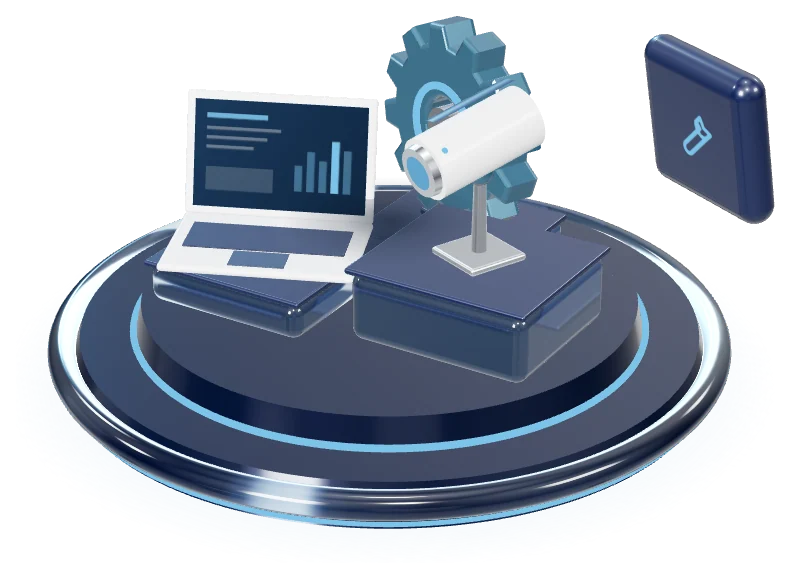
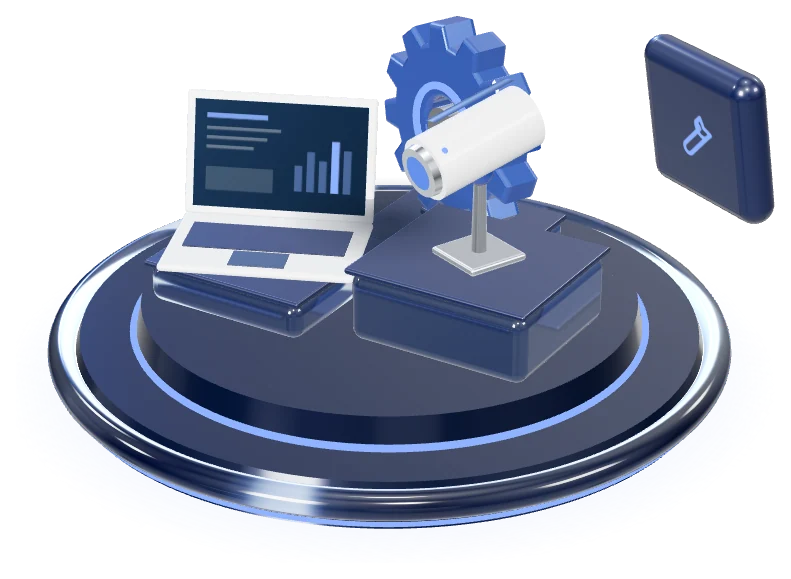
Royal-blue palette, shared frame alignment, centred nav tab
New colours: royal-blue primary button (white text, white chip), steel
blue accent on light, periwinkle accent on navy, blue-tinted ice and
mist; 3D renders re-rendered in the new palette. Every panel and every
section's content now sits on one frame (min(100% - 2 x inset, 1440px)),
so all sections start and end exactly where the hero does at every
width. The nav tab is centred between the logo and the button.

diff --git a/src/app/globals.css b/src/app/globals.css
@@ -6,12 +6,13 @@
    Motion timings live next door in src/lib/motion.ts.
 
    Contrast (WCAG AA), measured:
-     on white   text 15.9 · text-2 7.5 · text-3 5.2 · steel 5.6
-     on mist    text 15.0 · text-2 7.1 · text-3 4.9 · steel 5.3
-     on ice     text 14.3 · text-2 6.7 · text-3 4.7 · steel 5.0
-     on navy    white 15.9 · text-2-dark 9.1 · text-3-dark 6.2 · sky 5.9
-     ink on sky 6.9 (primary button) · ink on sky-deep 5.0 (its hover)
-   Sky and LED blue are fills, lines and large display text only on white.
+     on white   text 15.9 · text-2 7.5 · text-3 5.2 · steel (accent) 6.2
+     on mist    text 15.1 · text-2 7.1 · text-3 4.9 · steel 5.9
+     on ice     text 14.4 · text-2 6.8 · text-3 4.7 · steel 5.6
+     on navy    white 15.9 · text-2-dark 9.1 · text-3-dark 6.2 · sky 6.9
+     white on azure 5.2 (primary button) · white on azure-deep 6.7 (hover)
+   Sky and LED blue are accents on navy and fills only; never small text
+   on white.
    ========================================================================== */
 
 @theme {
@@ -19,14 +20,16 @@
   --color-ink: #0b1626;
   --color-navy: #14213a;
   --color-brand: #2a4161;
-  --color-steel: #3f6d85;
-  --color-sky: #5ba3d0;
-  --color-sky-deep: #3f88b8; /* sky's pressed / hover-wipe tone */
-  --color-ice: #eaf3fa;
-  --color-mist: #f4f8fb;
-  --color-line: #e3e9f0;
+  --color-steel: #2f5cc4; /* royal steel blue: the accent on light */
+  --color-sky: #7aa2ff; /* periwinkle: the accent on navy, fills */
+  --color-sky-deep: #4f7fe8;
+  --color-azure: #2563eb; /* primary action */
+  --color-azure-deep: #1d4ed8;
+  --color-ice: #edf2ff;
+  --color-mist: #f5f7fc;
+  --color-line: #e2e8f3;
   --color-amber: #f5b84b; /* tiny highlights only, never a wash */
-  --color-led: #7cc3e8; /* light sources in renders and on dark panels */
+  --color-led: #8fb3ff; /* light sources in renders and on dark panels */
 
   /* Text (light surfaces) */
   --color-text: #14213a;
@@ -37,15 +40,15 @@
   --color-fg: #14213a;
   --color-fg-muted: #4a5568;
   --color-fg-subtle: #5b6b80;
-  --color-accent: #3f6d85; /* accent phrase on light: steel */
+  --color-accent: #2f5cc4; /* accent phrase on light: steel */
   --color-bg: #ffffff;
   --color-surface: #ffffff;
   --color-surface-2: #f4f8fb;
   --color-canvas: #f4f8fb;
   --color-bg-deep: #f4f8fb;
-  --color-bg-raised: #eaf3fa;
+  --color-bg-raised: #edf2ff;
   --color-on-glow: #0b1626; /* text on sky fills */
-  --color-glow: #5ba3d0;
+  --color-glow: #7aa2ff;
   --color-brand-deep: #14213a;
   --color-charcoal: #4a4a4a;
 
@@ -108,7 +111,7 @@
   --color-text-2: #c3cfdc;
   --color-fg-subtle: #9fb1c5;
   --color-text-3: #9fb1c5;
-  --color-accent: #5ba3d0; /* accent phrase on dark: sky */
+  --color-accent: #7aa2ff; /* accent phrase on dark: sky */
   --color-line: rgb(255 255 255 / 0.12);
   --color-surface: rgb(255 255 255 / 0.06);
   --color-surface-2: rgb(255 255 255 / 0.08);
@@ -131,12 +134,12 @@
   --color-text-2: #4a5568;
   --color-fg-subtle: #5b6b80;
   --color-text-3: #5b6b80;
-  --color-accent: #3f6d85;
-  --color-line: #e3e9f0;
+  --color-accent: #2f5cc4;
+  --color-line: #e2e8f3;
   --color-surface: #ffffff;
   --color-surface-2: #f4f8fb;
   --color-bg: #ffffff;
-  --surface-edge: #e3e9f0;
+  --surface-edge: #e2e8f3;
   --shadow-card: 0 1px 2px rgb(11 22 38 / 0.05), 0 16px 40px rgb(11 22 38 / 0.08);
   color: var(--color-fg);
 }
@@ -275,8 +278,17 @@ html.lenis body {
 }
 
 /* An inset rounded panel: 16-24px from the viewport edges, radius 40 */
+/* The site frame: every panel and every section's content shares these
+   left and right edges (the hero's), up to 1440px wide. */
+@utility frame {
+  width: min(100% - 2 * var(--inset), 90rem);
+  margin-inline: auto;
+}
+
+/* An inset rounded panel on the frame, radius 40 */
 @utility panel {
-  margin-inline: var(--inset);
+  width: min(100% - 2 * var(--inset), 90rem);
+  margin-inline: auto;
   border-radius: var(--radius-panel);
 }
 
@@ -305,9 +317,9 @@ html.lenis body {
   border-radius: 9999px;
   aspect-ratio: 1;
   background:
-    radial-gradient(closest-side, transparent calc(100% - 1px), var(--ring-c, rgb(91 163 208 / 0.16)) calc(100% - 1px), transparent 100%),
-    radial-gradient(closest-side, transparent calc(78% - 1px), var(--ring-c, rgb(91 163 208 / 0.16)) calc(78% - 1px), transparent 78%),
-    radial-gradient(closest-side, transparent calc(56% - 1px), var(--ring-c, rgb(91 163 208 / 0.16)) calc(56% - 1px), transparent 56%);
+    radial-gradient(closest-side, transparent calc(100% - 1px), var(--ring-c, rgb(122 162 255 / 0.16)) calc(100% - 1px), transparent 100%),
+    radial-gradient(closest-side, transparent calc(78% - 1px), var(--ring-c, rgb(122 162 255 / 0.16)) calc(78% - 1px), transparent 78%),
+    radial-gradient(closest-side, transparent calc(56% - 1px), var(--ring-c, rgb(122 162 255 / 0.16)) calc(56% - 1px), transparent 56%);
 }
 
 /* ==========================================================================
@@ -421,13 +433,15 @@ html.lenis body {
   opacity: 0.6;
 }
 
-/* Primary: sky fill, ink text, navy chip. Same on light and dark. */
+/* Primary: royal-blue fill, white text, white chip. Same on light and dark. */
 .btn-primary {
-  --btn-bg: #5ba3d0;
-  --btn-fg: #0b1626;
-  --btn-wipe: #3f88b8;
-  --btn-chip-bg: #14213a;
-  --btn-chip-fg: #ffffff;
+  --btn-bg: #2563eb;
+  --btn-fg: #ffffff;
+  --btn-wipe: #1d4ed8;
+  --btn-chip-bg: #ffffff;
+  --btn-chip-fg: #2563eb;
+  --btn-chip-fg-hover: #1d4ed8;
+  box-shadow: 0 8px 22px -8px rgb(37 99 235 / 0.55);
 }
 
 /* Secondary on light: navy outline; the wipe fills it navy, text turns white */
@@ -665,8 +679,8 @@ html.lenis body {
   color: #fff;
 }
 .deck-card[data-tone-card="ice"] {
-  background-color: #eaf3fa;
-  box-shadow: 0 0 0 1px rgb(63 109 133 / 0.12);
+  background-color: #edf2ff;
+  box-shadow: 0 0 0 1px rgb(47 92 196 / 0.12);
 }
 .deck-card-art {
   transform: perspective(700px) rotateX(var(--tilt-x, 0deg)) rotateY(var(--tilt-y, 0deg));
@@ -686,18 +700,18 @@ html.lenis body {
 }
 .deck-card[data-tone-card="navy"] .icon-tile {
   background: rgb(255 255 255 / 0.1);
-  box-shadow: inset 0 0 0 1px rgb(124 195 232 / 0.35);
-  color: #7cc3e8;
+  box-shadow: inset 0 0 0 1px rgb(143 179 255 / 0.35);
+  color: #8fb3ff;
 }
 .deck-card[data-tone-card="navy"] .icon-orbit {
-  border-color: rgb(124 195 232 / 0.35);
+  border-color: rgb(143 179 255 / 0.35);
 }
 @media (prefers-reduced-motion: no-preference) {
   @media (hover: hover) {
     .deck-card:hover {
       translate: 0 -6px;
       box-shadow:
-        0 0 0 1px rgb(63 109 133 / 0.22),
+        0 0 0 1px rgb(47 92 196 / 0.22),
         var(--shadow-card-hover);
     }
     .deck-card:hover img.deck-card-art {

diff --git a/src/components/shared/page-hero.tsx b/src/components/shared/page-hero.tsx
@@ -75,7 +75,7 @@ export function PageHero({
         reveal
         backdrop={
           <div aria-hidden className="pointer-events-none absolute inset-0 -z-10">
-            <div className="absolute top-[-10%] right-[-8%] aspect-square w-[70%] rounded-full bg-[radial-gradient(closest-side,rgb(63_109_133/0.5),rgb(42_65_97/0.15)_55%,transparent)] lg:w-[48%]" />
+            <div className="absolute top-[-10%] right-[-8%] aspect-square w-[70%] rounded-full bg-[radial-gradient(closest-side,rgb(47_92_196/0.5),rgb(30_48_96/0.15)_55%,transparent)] lg:w-[48%]" />
             <div className="rings top-[-6%] right-[-4%] w-[80%] lg:w-[46%]" />
             {watermark && (
               <span className="absolute bottom-[-0.12em] left-[-0.04em] font-display text-[clamp(9rem,26vw,22rem)] leading-none font-extrabold tracking-[-0.05em] text-white/[0.045] select-none">
@@ -85,7 +85,7 @@ export function PageHero({
           </div>
         }
       >
-        <div className="mx-auto grid max-w-[80rem] items-center gap-6 px-(--gutter) pt-12 pb-10 sm:pt-14 lg:grid-cols-12 lg:gap-10 lg:py-16">
+        <div className="grid items-center gap-6 px-(--gutter) pt-12 pb-10 sm:pt-14 lg:grid-cols-12 lg:gap-10 lg:py-16">
           <div className="lg:col-span-7">
             <nav aria-label="Breadcrumb" data-intro className="flex items-center gap-2 text-sm font-medium text-fg-subtle">
               <Link href="/" className="transition-colors hover:text-white">

diff --git a/src/components/layout/notched-panel.tsx b/src/components/layout/notched-panel.tsx
@@ -103,7 +103,7 @@ export function NotchedPanel({
   }, []);
 
   return (
-    <div ref={wrap} data-notched data-reveal={reveal ? "pending" : undefined} className={cn("relative isolate mx-(--inset) mt-2 sm:mt-3", className)}>
+    <div ref={wrap} data-notched data-reveal={reveal ? "pending" : undefined} className={cn("frame relative isolate mt-2 sm:mt-3", className)}>
       {geo && (
         <svg
           aria-hidden
@@ -125,7 +125,7 @@ export function NotchedPanel({
       {/* Header strip: logo on white, nav tab in the panel, button on white */}
       <div className="relative flex h-(--header-h) items-center gap-4 pl-1 sm:pl-2">
         <Brand />
-        <div className="flex-1" />
+        <div className="min-w-8 flex-1" />
         <nav
           ref={tab}
           data-notch-tab
@@ -149,8 +149,8 @@ export function NotchedPanel({
             })}
           </ul>
         </nav>
-        {/* Room for the right shoulder */}
-        <div className="hidden w-6 lg:block" />
+        {/* The tab sits centred between the logo and the button */}
+        <div className="hidden min-w-8 flex-1 lg:block" />
         <Button href="/contact#enquiry" className="hidden lg:inline-flex">
           Get a Quote
         </Button>

diff --git a/src/components/three/textures.ts b/src/components/three/textures.ts
@@ -74,7 +74,7 @@ export function iconTexture(icon: IconKey, color = "#ffffff") {
     ctx.lineJoin = "round";
     ctx.lineWidth = 1.7;
     ctx.strokeStyle = color;
-    ctx.shadowColor = "rgba(124,195,232,0.9)";
+    ctx.shadowColor = "rgba(143,179,255,0.9)";
     ctx.shadowBlur = 1.2;
     for (const d of ICON_PATHS[icon]) ctx.stroke(new Path2D(d));
   });
@@ -88,14 +88,14 @@ export function screenTexture(kind: "laptop" | "printer") {
     bg.addColorStop(1, "#0f2742");
     ctx.fillStyle = bg;
     ctx.fillRect(0, 0, 512, 320);
-    ctx.fillStyle = "rgba(124,195,232,0.9)";
+    ctx.fillStyle = "rgba(143,179,255,0.9)";
     if (kind === "laptop") {
       ctx.fillRect(36, 40, 180, 14);
       ctx.fillStyle = "rgba(255,255,255,0.35)";
       [80, 108, 136].forEach((y, i) => ctx.fillRect(36, y, 220 - i * 40, 9));
       const bars = [0.45, 0.7, 0.55, 0.9, 0.75];
       bars.forEach((h, i) => {
-        ctx.fillStyle = i === 3 ? "#7cc3e8" : "rgba(124,195,232,0.45)";
+        ctx.fillStyle = i === 3 ? "#8fb3ff" : "rgba(143,179,255,0.45)";
         ctx.fillRect(300 + i * 36, 260 - h * 170, 22, h * 170);
       });
       ctx.fillStyle = "rgba(255,255,255,0.18)";

diff --git a/src/components/home/about.tsx b/src/components/home/about.tsx
@@ -23,7 +23,7 @@ export function About() {
   return (
     <>
       <Section id="about" tone="ice" className="overflow-hidden">
-        <div aria-hidden className="rings top-1/2 right-[-12%] w-[70%] -translate-y-1/2 [--ring-c:rgb(63_109_133/0.14)]" />
+        <div aria-hidden className="rings top-1/2 right-[-12%] w-[70%] -translate-y-1/2 [--ring-c:rgb(47_92_196/0.14)]" />
         <Container>
           <div className="grid items-center gap-14 lg:grid-cols-12 lg:gap-10">
             <Reveal className="lg:col-span-5">
@@ -67,7 +67,7 @@ export function About() {
       </Section>
 
       {/* Bento: the facts the company stands on */}
-      <section aria-label="What we stand on" className="pt-6 pb-(--section-y)">
+      <section aria-label="What we stand on" className="frame pt-6 pb-(--section-y)">
         <Container>
           <CardDeck className="grid gap-4 md:grid-cols-2 lg:grid-cols-12 lg:grid-rows-[auto_auto] lg:gap-5">
             <article data-card data-theme="dark" className="relative isolate flex min-h-[22rem] flex-col overflow-hidden rounded-card bg-navy p-7 sm:p-8 lg:col-span-4 lg:row-span-2">

diff --git a/src/components/three/pieces.ts b/src/components/three/pieces.ts
@@ -14,7 +14,7 @@ export const PLATFORM_TOP = 0.56;
 export function createShared() {
   return {
     shadow: radialTexture("11,22,38", 0.85, 0.32),
-    pool: radialTexture("91,163,208", 0.55, 0.18),
+    pool: radialTexture("91,141,239", 0.55, 0.18),
   };
 }
 export type Shared = ReturnType<typeof createShared>;
@@ -91,7 +91,7 @@ export function buildTile(m: Materials, icon: IconKey, variant: "frost" | "navy"
   // A sky-tinted inner card behind the glyph, so it reads through the glass.
   const inner = new THREE.Mesh(
     new RoundedBoxGeometry(size * 0.72, size * 0.72, 0.02, 2, size * 0.14),
-    new THREE.MeshBasicMaterial({ color: variant === "navy" ? "#1d3557" : "#4f97c6", transparent: true, opacity: variant === "navy" ? 1 : 0.92, toneMapped: false }),
+    new THREE.MeshBasicMaterial({ color: variant === "navy" ? "#1d3557" : "#3f74e0", transparent: true, opacity: variant === "navy" ? 1 : 0.92, toneMapped: false }),
   );
   inner.position.z = size * 0.06;
   group.add(inner, slab, glyph);

diff --git a/src/components/ui/container.tsx b/src/components/ui/container.tsx
@@ -1,6 +1,9 @@
 import { cn } from "@/lib/utils";
 
-/** Content width (1280px) and gutters (20-48px). Every section uses this. */
+/**
+ * Content inside the frame, with the 20-48px gutter. Sections and panels
+ * set the frame width, so every section's content lines up with the hero's.
+ */
 export function Container({
   className,
   children,
@@ -14,7 +17,7 @@ export function Container({
     <div
       className={cn(
         "mx-auto w-full px-(--gutter)",
-        size === "default" ? "max-w-[80rem]" : "max-w-[56rem]",
+        size === "narrow" && "max-w-[56rem]",
         className,
       )}
     >
@@ -26,7 +29,7 @@ export function Container({
 export type SectionTone = "white" | "mist" | "ice" | "navy";
 
 const TONE: Record<SectionTone, string> = {
-  white: "bg-white",
+  white: "frame",
   mist: "panel bg-mist",
   ice: "panel bg-ice",
   navy: "panel bg-navy",

diff --git a/src/components/three/materials.ts b/src/components/three/materials.ts
@@ -11,9 +11,9 @@ export const PALETTE = {
   ink: "#0b1626",
   navy: "#14213a",
   brand: "#2a4161",
-  steel: "#3f6d85",
-  sky: "#5ba3d0",
-  led: "#7cc3e8",
+  steel: "#3a5fb4",
+  sky: "#5b8def",
+  led: "#8fb3ff",
   ceramic: "#f3f6fa",
   chrome: "#dfe6ee",
 };
@@ -100,10 +100,10 @@ export function createMaterials(quality: Quality) {
     glass: glass("#e8f3fb", 0.08),
     /** Floating tiles and spheres sit over the page, not the scene, so they
      *  use fake glass: transmission over a transparent canvas reads milky. */
-    frost: glass("#8fc2e6", 0.06, 0.34, true),
+    frost: glass("#9dbbf5", 0.06, 0.34, true),
     bubble: glass("#d6ebf9", 0.04, 0.2, true),
     /** Bar-chart columns, tinted sky. */
-    glassSky: glass("#9fd0ee", 0.06, 0.45),
+    glassSky: glass("#a9c4ff", 0.06, 0.45),
   };
 }
 

diff --git a/src/components/home/hero.tsx b/src/components/home/hero.tsx
@@ -185,7 +185,7 @@ export function Hero() {
         backdrop={
           <div aria-hidden className="pointer-events-none absolute inset-0 -z-10">
             {/* One soft steel-blue light behind the platform, and its rings */}
-            <div className="absolute top-[18%] right-[-6%] aspect-square w-[95%] rounded-full bg-[radial-gradient(closest-side,rgb(63_109_133/0.55),rgb(42_65_97/0.18)_55%,transparent)] lg:top-[4%] lg:right-[-4%] lg:w-[62%]" />
+            <div className="absolute top-[18%] right-[-6%] aspect-square w-[95%] rounded-full bg-[radial-gradient(closest-side,rgb(47_92_196/0.55),rgb(30_48_96/0.18)_55%,transparent)] lg:top-[4%] lg:right-[-4%] lg:w-[62%]" />
             <div className="rings top-[30%] right-[-14%] w-[110%] lg:top-[8%] lg:right-[-6%] lg:w-[66%]" />
           </div>
         }

diff --git a/src/components/shared/contact-form.tsx b/src/components/shared/contact-form.tsx
@@ -8,7 +8,7 @@ import { site } from "@/lib/site";
 import { cn } from "@/lib/utils";
 
 const fieldClass =
-  "w-full rounded-2xl border-0 bg-mist px-5 py-3.5 text-[0.9375rem] text-navy ring-1 ring-inset ring-line transition-[box-shadow,background-color] duration-300 placeholder:text-text-3 hover:bg-white focus:bg-white focus:shadow-[0_0_0_4px_rgb(91_163_208/0.18)] focus:ring-2 focus:ring-sky focus:outline-none";
+  "w-full rounded-2xl border-0 bg-mist px-5 py-3.5 text-[0.9375rem] text-navy ring-1 ring-inset ring-line transition-[box-shadow,background-color] duration-300 placeholder:text-text-3 hover:bg-white focus:bg-white focus:shadow-[0_0_0_4px_rgb(122_162_255/0.18)] focus:ring-2 focus:ring-sky focus:outline-none";
 
 const labelClass = "block text-sm font-medium text-navy";
 

diff --git a/src/components/shared/cta.tsx b/src/components/shared/cta.tsx
@@ -17,7 +17,7 @@ export function Cta({
   return (
     <Section tone="navy" pad={false} className="mt-6 overflow-hidden" aria-label="Get a quote">
       <div aria-hidden className="pointer-events-none absolute inset-0 -z-10">
-        <div className="absolute top-1/2 right-[-6%] aspect-square w-[50%] -translate-y-1/2 rounded-full bg-[radial-gradient(closest-side,rgb(63_109_133/0.5),transparent)]" />
+        <div className="absolute top-1/2 right-[-6%] aspect-square w-[50%] -translate-y-1/2 rounded-full bg-[radial-gradient(closest-side,rgb(47_92_196/0.5),transparent)]" />
         <div className="rings top-1/2 right-[2%] w-[38%] -translate-y-1/2" />
       </div>
       <Container>

diff --git a/src/components/home/product-deck.tsx b/src/components/home/product-deck.tsx
@@ -106,7 +106,7 @@ export function ProductDeck({ cards }: { cards: DeckCard[] }) {
                     key={front}
                     aria-hidden
                     onAnimationEnd={() => go(1)}
-                    className="hero-progress absolute inset-x-0 bottom-0 h-1 origin-left bg-linear-to-r from-steel to-glow shadow-[0_0_12px_rgb(91_163_208/0.8)]"
+                    className="hero-progress absolute inset-x-0 bottom-0 h-1 origin-left bg-linear-to-r from-steel to-glow shadow-[0_0_12px_rgb(122_162_255/0.8)]"
                     style={{
                       animationDuration: `${CYCLE_MS}ms`,
                       animationPlayState: running ? "running" : "paused",
